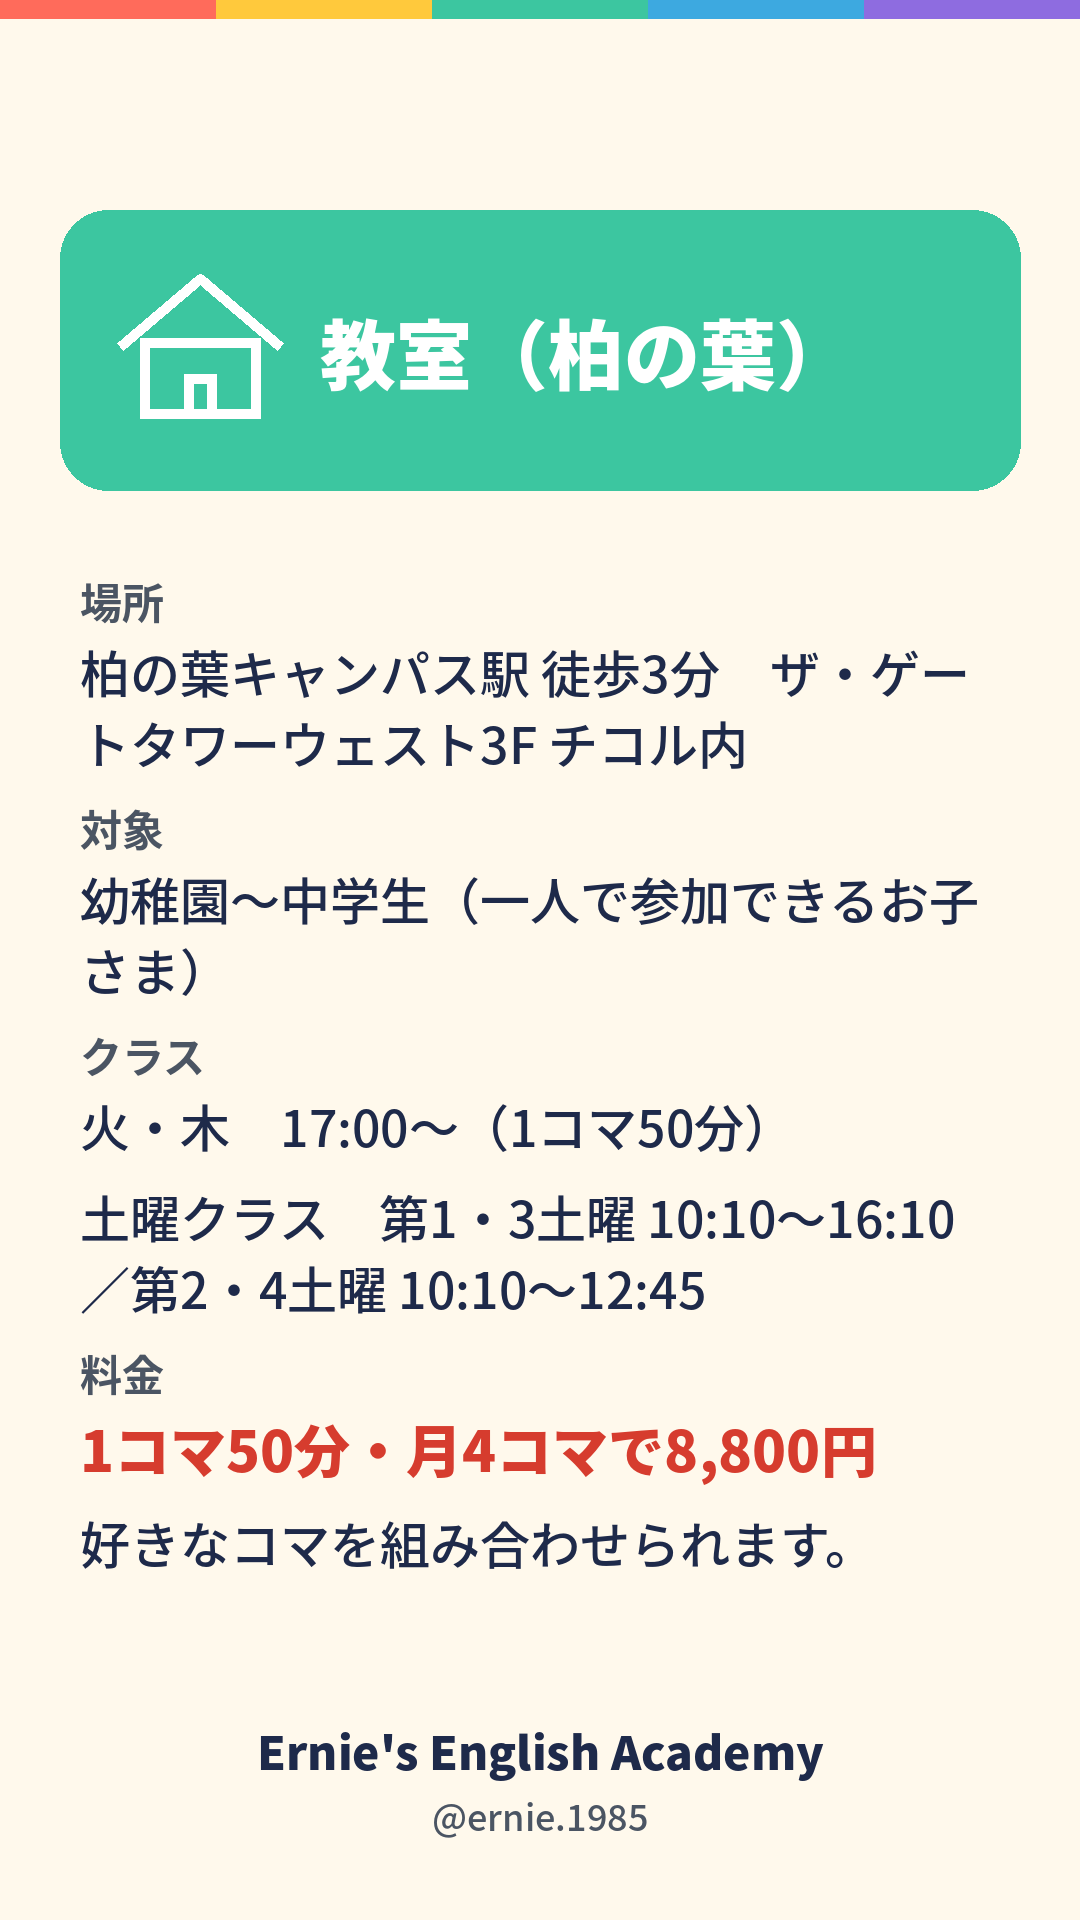
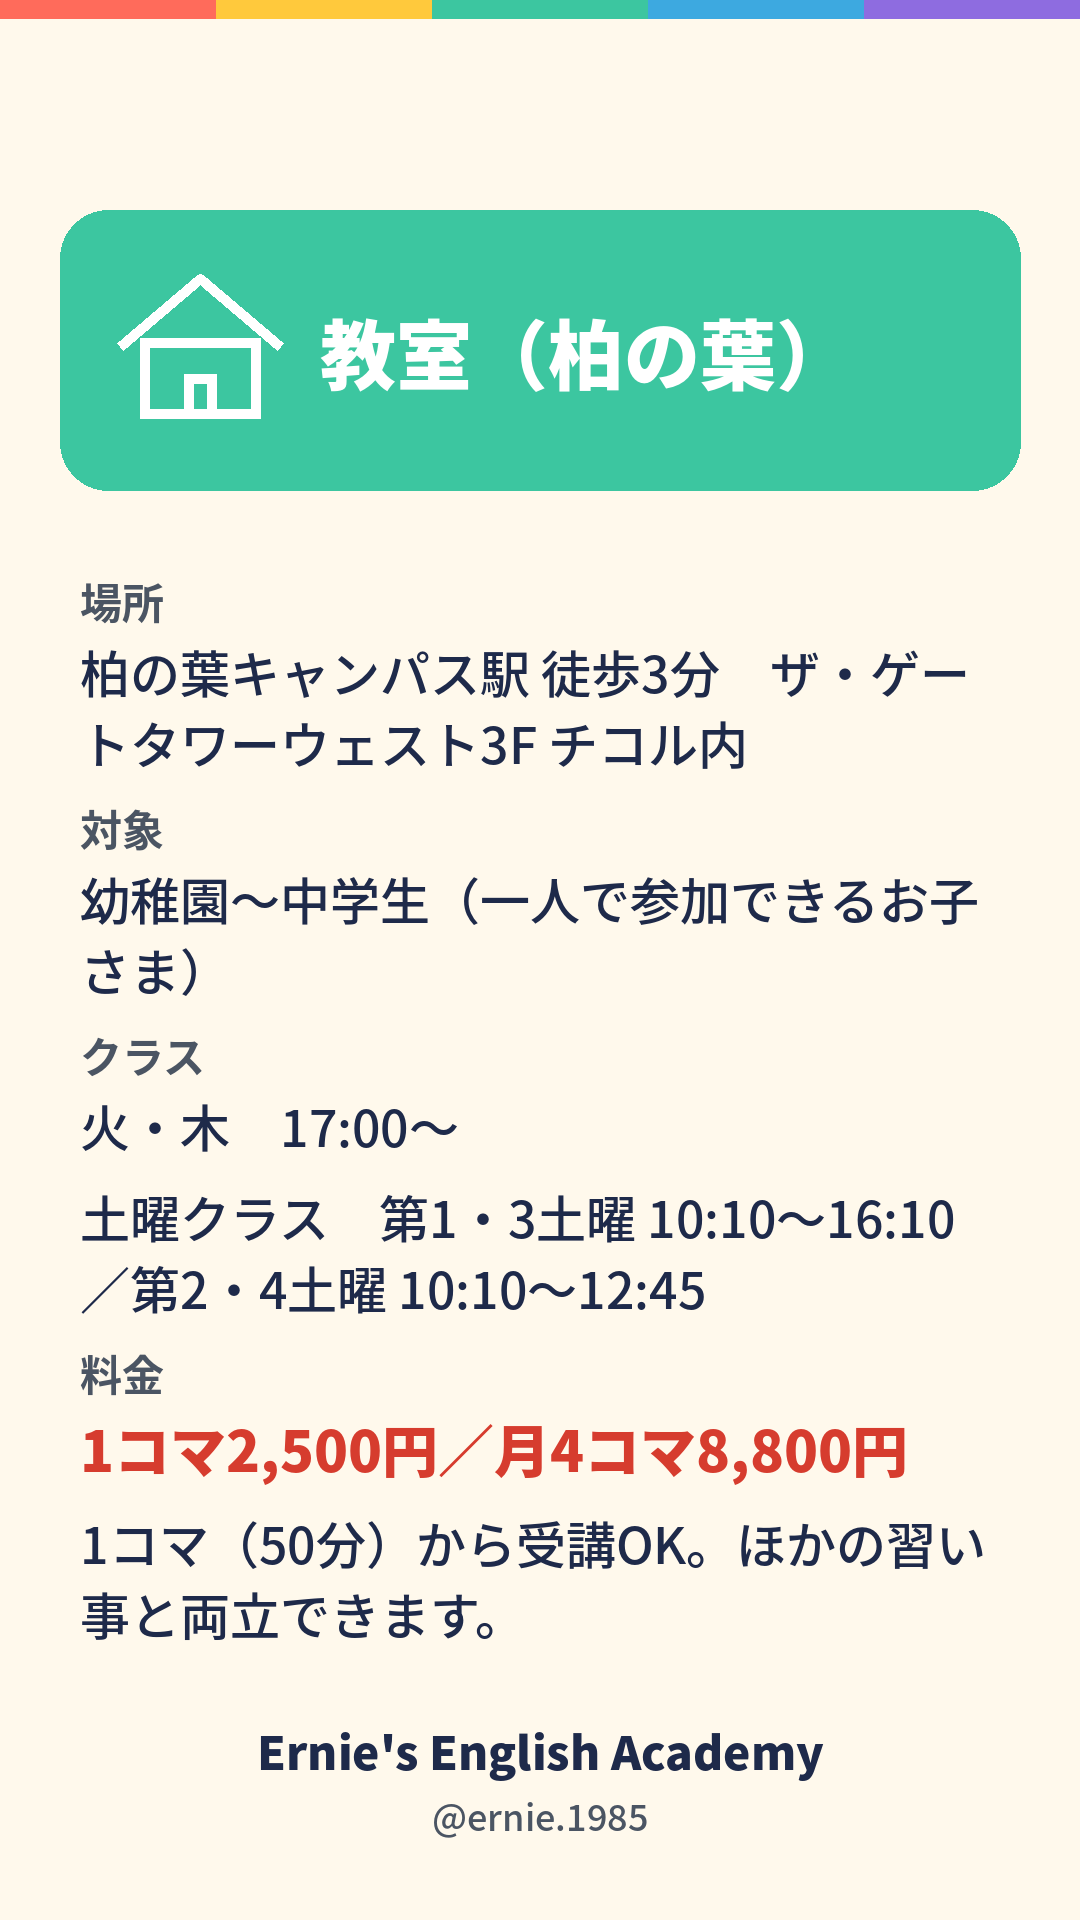
料金（1コマ2,500円から）と体験の代わりの1コマ受講を追加、出入り自由の言い切りをやめる
Claude-Session: https://claude.ai/code/session_01Y7Jh2SBcj11bd2yfh8yv7S

Changed region(s): [[0.0611, 0.7188, 0.9167, 0.875], [0.5194, 0.5625, 0.7028, 0.5938], [0.4583, 0.5625, 0.4889, 0.5938]]

diff --git a/index.html b/index.html
@@ -105,7 +105,7 @@ h1,h2,h3{font-family:'Zen Maru Gothic',sans-serif}
 <div role="img" aria-label="写真の場所" style="background:#EEE8FC;border:2px dashed #8E6CE0;border-radius:16px;height:170px;display:flex;align-items:center;justify-content:center;padding:14px;box-sizing:border-box;text-align:center;font-size:13px;margin-bottom:12px">写真：子どもが持ってきたぬいぐるみやおもちゃが机に並んでいる様子</div>
 <p style="margin:0;font-family:'Zen Maru Gothic',sans-serif;font-weight:900;font-size:40px;color:#8E6CE0">04</p>
 <h3 style="margin:4px 0 8px;font-size:21px">手ぶらで、好きなときに</h3>
-<p style="margin:0;font-size:15px">教材は先生が用意するので、最初にそろえる物はありません。好きなおもちゃやぬいぐるみを持ってきたら、それがその日のテーマに。土曜は50分ごとに、来る時間も帰る時間も自由です。</p>
+<p style="margin:0;font-size:15px">教材は先生が用意するので、最初にそろえる物はありません。好きなおもちゃやぬいぐるみを持ってきたら、それがその日のテーマに。土曜は50分ごとのコマから、ご家庭の予定に合わせて選べます。</p>
 </div>
 </div>
 </div>
@@ -155,7 +155,7 @@ h1,h2,h3{font-family:'Zen Maru Gothic',sans-serif}
 <p style="margin:0 0 16px;font-size:15px">留学というより、親戚みんなが集まったおうちのような、あったかい場所。年齢のちがう子どもたちが、風船あそび・クラフト・ゲームを英語で楽しみます。大きい子が小さい子に教えたり、いろいろな交流が生まれます。1回だけの参加もOK。</p>
 <p style="margin:0;font-size:15px"><strong>第1・3土曜</strong> 10:10〜16:10</p>
 <p style="margin:0;font-size:15px"><strong>第2・4土曜</strong> 10:10〜12:45</p>
-<p style="margin:6px 0 0;font-size:14px;color:#4B5563">50分ごとのコマに分かれていて、途中から来ても、途中で帰ってもOK。続けて受ければ、ランチもはさんで1日英語で過ごす「プチ留学」のような過ごし方もできます。「まだ帰りたくない！」という子も多いクラスです。</p>
+<p style="margin:6px 0 0;font-size:14px;color:#4B5563">50分ごとのコマに分かれていて、好きなコマを選んで参加できます。続けて受ければ、ランチもはさんで1日英語で過ごす「プチ留学」のような過ごし方もできます。「まだ帰りたくない！」という子も多いクラスです。</p>
 <p style="margin:12px 0 0;font-family:'Zen Maru Gothic',sans-serif;font-weight:900;font-size:30px">月4コマ 8,800円</p>
 </div>
 <div style="background:#fff;border-radius:24px;padding:28px;border-top:10px solid #3DA9E0">
@@ -171,8 +171,8 @@ h1,h2,h3{font-family:'Zen Maru Gothic',sans-serif}
 <div style="margin-top:32px;background:#EEE8FC;border-radius:28px;padding:32px;display:flex;flex-wrap:wrap;gap:24px;align-items:center">
 <div style="flex:1 1 260px;min-width:0">
 <p style="margin:0;color:#6A48C2;font-weight:700">教室の料金のしくみ</p>
-<h3 style="margin:4px 0 8px;font-size:26px">1コマ50分。月4コマで8,800円</h3>
-<p style="margin:0;font-size:15px">火・木・土の好きなコマを組み合わせられます。4コマ（合計200分）ごとに月8,800円です。</p>
+<h3 style="margin:4px 0 8px;font-size:26px">1コマ50分・2,500円から。月4コマなら8,800円</h3>
+<p style="margin:0;font-size:15px">1コマだけの受講もできるので、体験レッスンの代わりに、まずは1コマからどうぞ。ほかの英語教室や習い事に通っているお子さまも、空いている日に1コマから参加できます。火・木・土の好きなコマを組み合わせられ、4コマ（合計200分）ごとに月8,800円です。</p>
 </div>
 <div style="flex:1 1 260px;min-width:0;display:grid;grid-template-columns:repeat(auto-fit,minmax(130px,1fr));gap:12px;text-align:center">
 <div style="background:#fff;border-radius:18px;padding:16px"><p style="margin:0;font-size:13px;font-weight:700">毎週1コマ</p><p style="margin:4px 0 0;font-size:13px;color:#4B5563">50分×4回</p><p style="margin:6px 0 0;font-family:'Zen Maru Gothic',sans-serif;font-weight:900;font-size:22px;color:#6A48C2">8,800円</p></div>
@@ -268,12 +268,12 @@ h1,h2,h3{font-family:'Zen Maru Gothic',sans-serif}
 <p style="margin:0;text-align:center;color:#D63C2E;font-weight:700;font-family:'Zen Maru Gothic',sans-serif">Q&amp;A</p>
 <h2 style="margin:4px 0 40px;text-align:center;font-size:clamp(26px,4.5vw,36px)">よくある質問</h2>
 <div style="display:flex;flex-direction:column;gap:16px">
-<div style="background:#fff;border-radius:20px;padding:24px"><h3 style="margin:0 0 6px;font-size:18px">Q. 体験レッスンはありますか？</h3><p style="margin:0;font-size:15px">教室は、見学と、季節のイベント・土曜の1回参加から始められます。ESHA（オンライン）は初回1回無料です。</p></div>
+<div style="background:#fff;border-radius:20px;padding:24px"><h3 style="margin:0 0 6px;font-size:18px">Q. 体験レッスンはありますか？</h3><p style="margin:0;font-size:15px">教室は体験レッスンの代わりに、1コマ（50分・2,500円）から受講できます。見学や季節のイベントからも始められます。ESHA（オンライン）は初回1回無料です。</p></div>
 <div style="background:#fff;border-radius:20px;padding:24px"><h3 style="margin:0 0 6px;font-size:18px">Q. 何歳から通えますか？</h3><p style="margin:0;font-size:15px">Ernie'sは、一人で参加できる幼稚園のお子さまから。それより小さなお子さまは、同じチコル内のアンファンでアーニー先生のクラスに参加できます。</p></div>
 <div style="background:#fff;border-radius:20px;padding:24px"><h3 style="margin:0 0 6px;font-size:18px">Q. 土曜は子どもを預けて出かけてもいいですか？</h3><p style="margin:0;font-size:15px">[先生に確認して記載]</p></div>
 <div style="background:#fff;border-radius:20px;padding:24px"><h3 style="margin:0 0 6px;font-size:18px">Q. テキストや教材を買う必要はありますか？</h3><p style="margin:0;font-size:15px">最初にそろえる物はありません。必要な教材やプリントは先生が用意します。英検など目的があるときは、合うテキストを先生がご提案します。</p></div>
 <div style="background:#fff;border-radius:20px;padding:24px"><h3 style="margin:0 0 6px;font-size:18px">Q. 何を持っていけばいいですか？</h3><p style="margin:0;font-size:15px">飲み物があれば大丈夫です。好きなおもちゃやぬいぐるみを持ってきてもOK。先生がそれを使って、その子に合ったレッスンをしてくれます。</p></div>
-<div style="background:#fff;border-radius:20px;padding:24px"><h3 style="margin:0 0 6px;font-size:18px">Q. 土曜は途中から参加したり、途中で帰ったりできますか？</h3><p style="margin:0;font-size:15px">できます。50分ごとのコマなので、ご家庭の予定に合わせて、来る時間・帰る時間を選べます。</p></div>
+<div style="background:#fff;border-radius:20px;padding:24px"><h3 style="margin:0 0 6px;font-size:18px">Q. 土曜は好きな時間だけ参加できますか？</h3><p style="margin:0;font-size:15px">できます。土曜は50分ごとのコマに分かれているので、参加したいコマを選んでお申し込みください（コマの時間は決まっています）。</p></div>
 <div style="background:#fff;border-radius:20px;padding:24px"><h3 style="margin:0 0 6px;font-size:18px">Q. 英検の対策はできますか？</h3><p style="margin:0;font-size:15px">はい。日本人講師のマリ先生が対応します。小学1年生で英検準2級、小学4年生で2級に合格した実績があります。</p></div>
 </div>
 </div>
